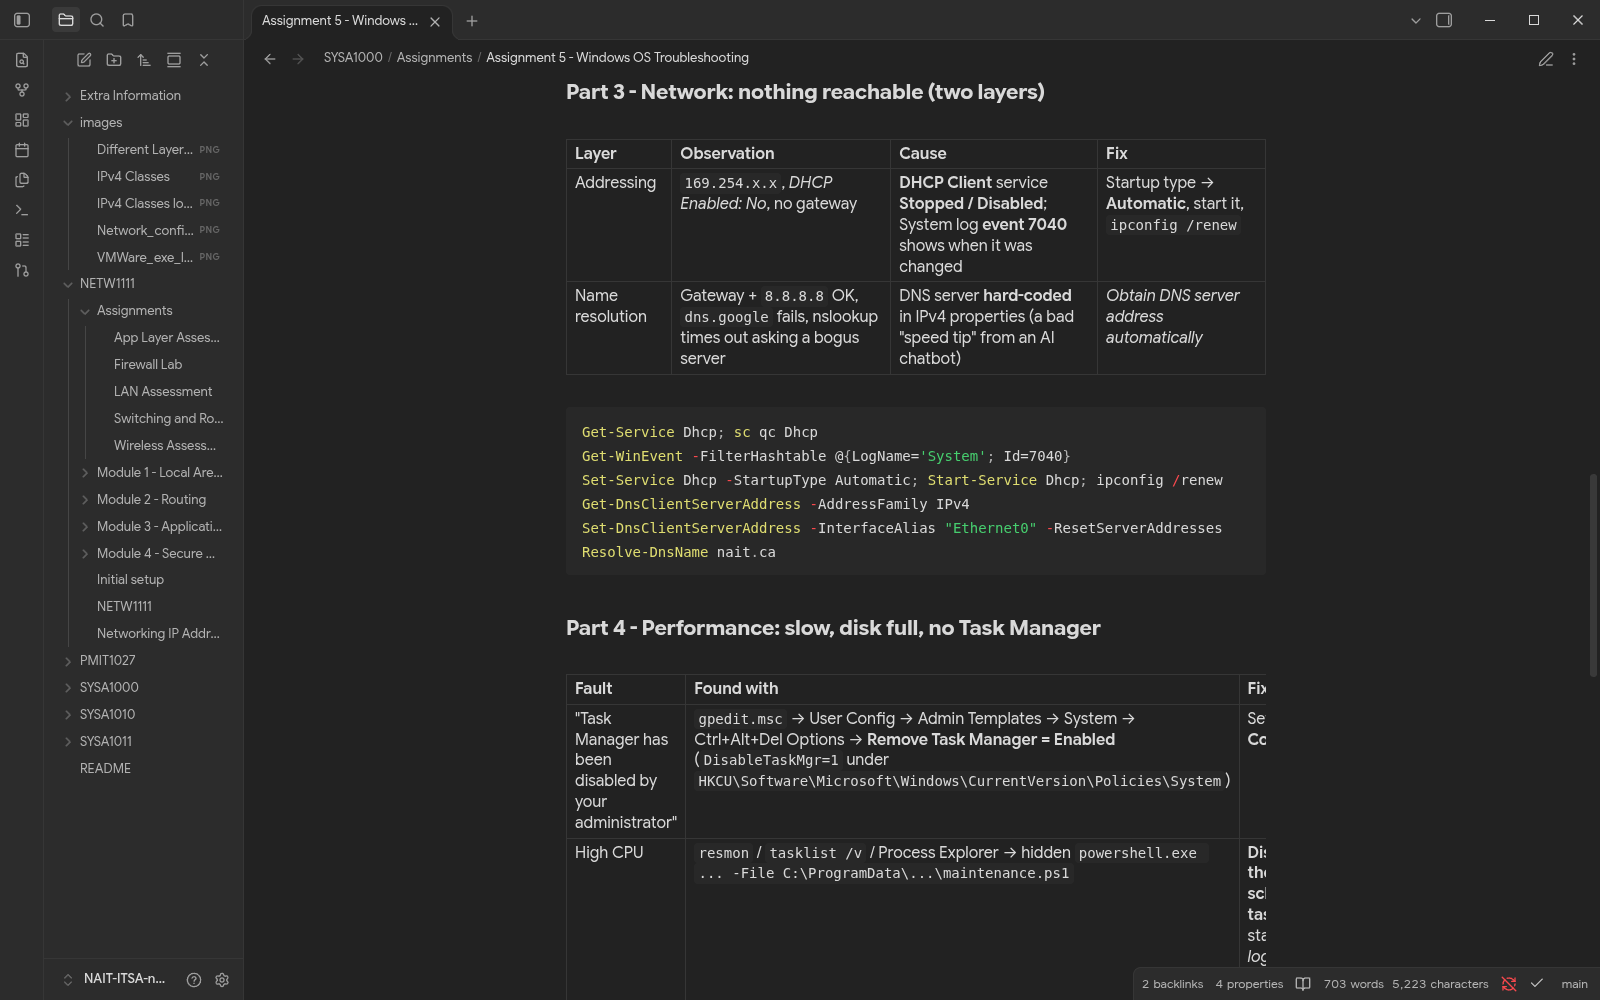
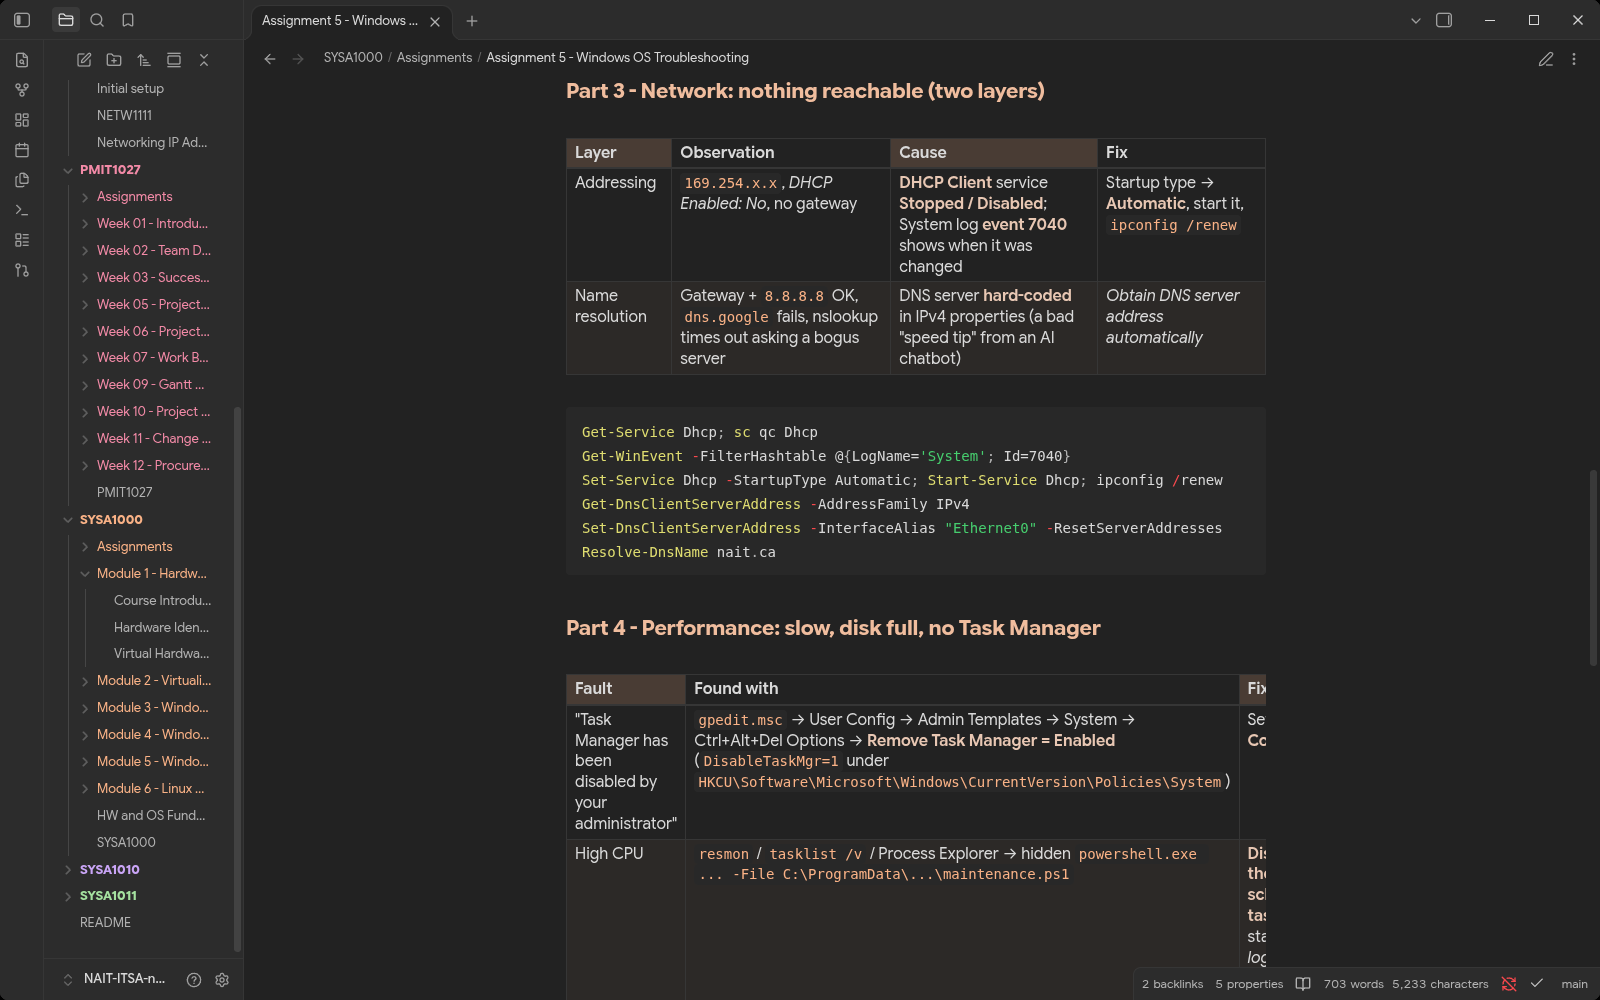
Switch color coding to Catppuccin and refresh screenshots
- Course accents and callouts use Catppuccin Mocha (dark) / Latte (light)
- Graph view color groups use the same palette
- Hide the cssclasses property in the Properties panel
- Retake README screenshots with the new colors

diff --git a/.obsidian/snippets/course-colors.css b/.obsidian/snippets/course-colors.css
@@ -1,17 +1,27 @@
 /* ============================================================
    Course color coding for the NAIT ITSA notes vault
    Each note has `cssclasses: [<course>]` in its frontmatter.
-   NETW1111 blue · SYSA1000 orange · SYSA1010 purple
+   NETW1111 blue · SYSA1000 peach · SYSA1010 mauve
    SYSA1011 green · PMIT1027 red · Extra Information teal
    ============================================================ */
 
-body {
-  --c-netw1111: #3b82f6;
-  --c-sysa1000: #f59e0b;
-  --c-sysa1010: #8b5cf6;
-  --c-sysa1011: #10b981;
-  --c-pmit1027: #ef4444;
-  --c-extra:    #14b8a6;
+/* Catppuccin palette - https://catppuccin.com/palette/
+   Mocha accents in dark mode, Latte accents in light mode */
+.theme-dark {
+  --c-netw1111: #89b4fa; /* blue  */
+  --c-sysa1000: #fab387; /* peach */
+  --c-sysa1010: #cba6f7; /* mauve */
+  --c-sysa1011: #a6e3a1; /* green */
+  --c-pmit1027: #f38ba8; /* red   */
+  --c-extra:    #94e2d5; /* teal  */
+}
+.theme-light {
+  --c-netw1111: #1e66f5;
+  --c-sysa1000: #fe640b;
+  --c-sysa1010: #8839ef;
+  --c-sysa1011: #40a02b;
+  --c-pmit1027: #d20f39;
+  --c-extra:    #179299;
 }
 
 /* Pick the accent for each course's notes */
@@ -21,6 +31,21 @@ body {
 .sysa1011 { --course: var(--c-sysa1011); }
 .pmit1027 { --course: var(--c-pmit1027); }
 .extra    { --course: var(--c-extra); }
+
+/* ---------- Callouts in Catppuccin colors ---------- */
+.theme-dark .callout[data-callout="note" i], .theme-dark .callout[data-callout="info" i] { --callout-color: #89b4fa; }
+.theme-dark .callout[data-callout="tip" i], .theme-dark .callout[data-callout="example" i] { --callout-color: #a6e3a1; }
+.theme-dark .callout[data-callout="important" i], .theme-dark .callout[data-callout="quote" i] { --callout-color: #cba6f7; }
+.theme-dark .callout[data-callout="warning" i] { --callout-color: #f9e2af; }
+.theme-dark .callout[data-callout="caution" i], .theme-dark .callout[data-callout="danger" i] { --callout-color: #f38ba8; }
+.theme-light .callout[data-callout="note" i], .theme-light .callout[data-callout="info" i] { --callout-color: #1e66f5; }
+.theme-light .callout[data-callout="tip" i], .theme-light .callout[data-callout="example" i] { --callout-color: #40a02b; }
+.theme-light .callout[data-callout="important" i], .theme-light .callout[data-callout="quote" i] { --callout-color: #8839ef; }
+.theme-light .callout[data-callout="warning" i] { --callout-color: #df8e1d; }
+.theme-light .callout[data-callout="caution" i], .theme-light .callout[data-callout="danger" i] { --callout-color: #d20f39; }
+
+/* Hide the cssclasses property - it only drives these colors */
+.metadata-property[data-property-key="cssclasses"] { display: none; }
 
 /* ---------- Headings ---------- */
 :is(.netw1111, .sysa1000, .sysa1010, .sysa1011, .pmit1027, .extra)

diff --git a/README.md b/README.md
@@ -50,7 +50,7 @@ Callouts are written as GitHub alerts, so they're colored both here and in Obsid
 > [!CAUTION]
 > **Red - Danger.** Things that can lose data or lock you out.
 
-In Obsidian, each course also has its own accent color (headings, tables, bold text, inline code and the file explorer) via the `course-colors` CSS snippet in `.obsidian/snippets/`. It's enabled by default; toggle it in **Settings → Appearance → CSS snippets**.
+In Obsidian, each course also has its own [Catppuccin](https://catppuccin.com/palette/) accent color (Mocha in dark mode, Latte in light mode) for headings, tables, bold text, inline code the file explorer and the graph view, set by the `course-colors` CSS snippet in `.obsidian/snippets/`. It's enabled by default; toggle it in **Settings → Appearance → CSS snippets**.
 
 ## Screenshots
 
